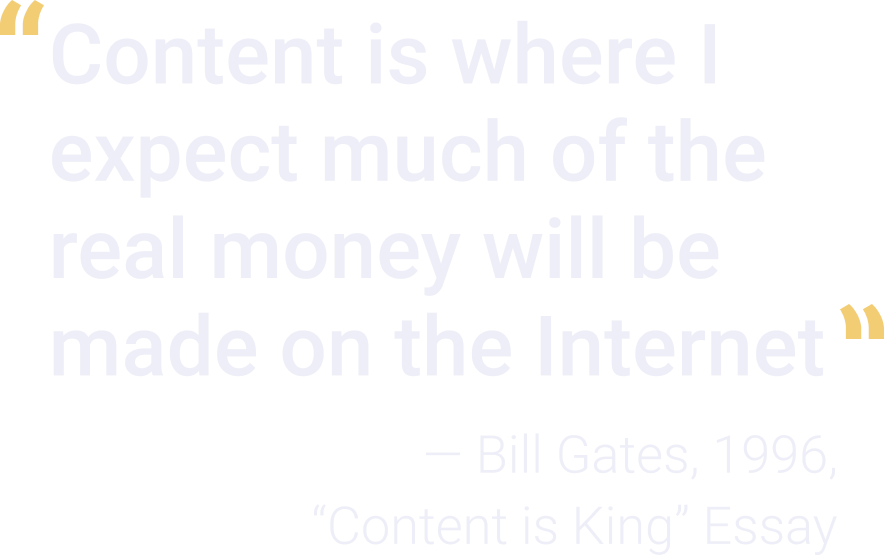
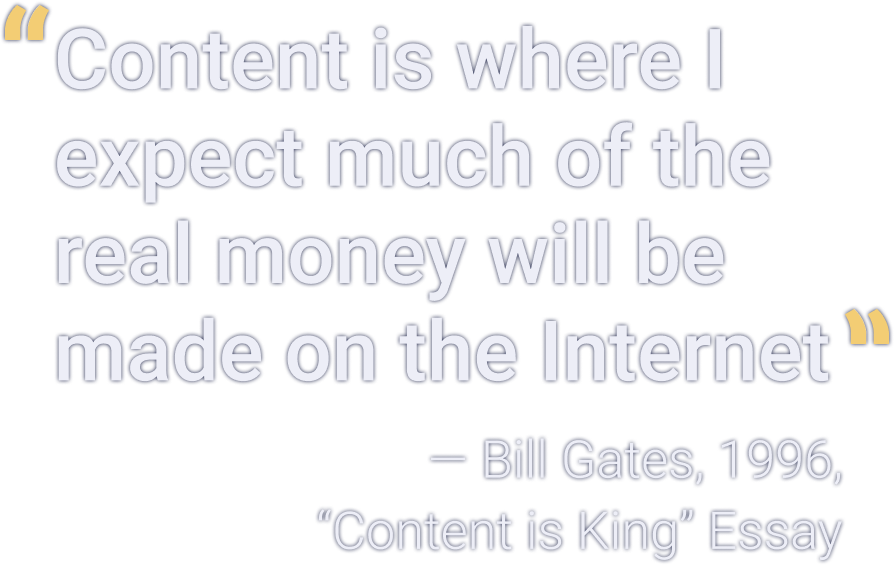
Add shadows to text images

diff --git a/index.html b/index.html
@@ -254,7 +254,7 @@
                     <div class="Squares"></div>
                     <div class="Slide__content d-flex f-center">
                         <div>
-                            <h2>Boa time</h2>
+                            <h2 style="text-transform: none;">Obrigado!</h2>
                             <ul class="Team">
                                 <li>João Pedro <span>| 11269755</span></li>
                                 <li>Karoline Rodrigues <span>| 11269651</span></li>
